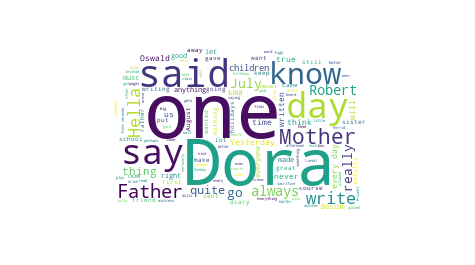
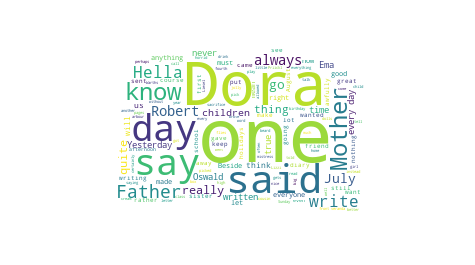
Add url loader module and update webpack config file

Changed region(s): [[0.2358, 0.1811, 0.7663, 0.8151]]

diff --git a/frontend/components/word_cloud/cloud.jsx b/frontend/components/word_cloud/cloud.jsx
@@ -1,26 +1,11 @@
 import React from 'react';
 import { render } from 'react-dom';
-// import WordCloud from 'react-d3-cloud';
 
 class Cloud extends React.Component {
   constructor(props) {
     super(props);
-    // this.data = this.data.bind(this);
     this.cloudImage = this.cloudImage.bind(this);
   }
-
-  // data() {
-  //   let entities = this.props.word_cloud.entities;
-  //   let other_words = this.props.word_cloud.other_words;
-  //
-  //   if (!this.props.proper_nouns) {
-  //     entities = [];
-  //   }
-  //   if (!this.props.common_nouns) {
-  //     other_words = [];
-  //   }
-  //   return entities.concat(other_words);
-  // }
 
   toggleButtons() {
     return (
@@ -57,16 +42,11 @@ class Cloud extends React.Component {
       filename = "otherwords.png";
     }
     return (
-      <img src={`../../../assets/${filename}`} alt="word-cloud" />
+      <img src={require(`../../../assets/${filename}`)} alt="word-cloud" />
     );
   }
 
   render() {
-    // const fontSizeMapper = word => Math.log2(word.value) * 5;
-    // const rotate = word => {
-    //   return (Math.random() >= 0.5) ? 0 : 90;
-    // }
-
     return (
       <div>
         <div className="text-area cloud-text">
@@ -87,10 +67,3 @@ class Cloud extends React.Component {
 }
 
 export default Cloud;
-
-// <WordCloud
-//   data={this.data()}
-//   fontSizeMapper={fontSizeMapper}
-//   rotate={rotate}
-//   padding={4}>
-// </WordCloud>

diff --git a/webpack.config.js b/webpack.config.js
@@ -9,6 +9,9 @@ module.exports = {
   module: {
     loaders: [
       {
+        test: /\.(png|jpg)$/, loader: 'url-loader?limit=8192'
+      },
+      {
         test: [/\.jsx?$/, /\.js?$/],
         exclude: /(node_modules|bower_components)/,
         loader: 'babel-loader',

diff --git a/frontend/components/tone/tone_summary.jsx b/frontend/components/tone/tone_summary.jsx
@@ -20,7 +20,6 @@ class ToneSummary extends React.Component {
           labels={datum => datum.x}
           style={{
             data: { fill: toneColors[emotion] }
-
           }}>
         </VictoryBar>
 

diff --git a/backend/analyze.py b/backend/analyze.py
@@ -6,7 +6,7 @@ import spacy
 nlp = spacy.load('en')
 
 from backend.word_count import word_count_fn
-# from backend.word_cloud import word_cloud_fn
+from backend.word_cloud import word_cloud_fn
 from backend.python_word_cloud import new_word_cloud_fn
 from backend.pronouns import pronouns_fn
 from backend.time_orientation import time_orientation_fn
@@ -174,7 +174,7 @@ def analyze_json():
             data["tone"]["area"][emotion].append(obj)
 
     # Pass all text from all entries to word cloud function
-    # data["word_cloud"] = word_cloud_fn(nlp, all_text)
+    data["word_cloud"] = word_cloud_fn(nlp, all_text)
     new_word_cloud_fn(nlp, all_text)
 
     # Pass all text from all entries to overall tone analysis function
